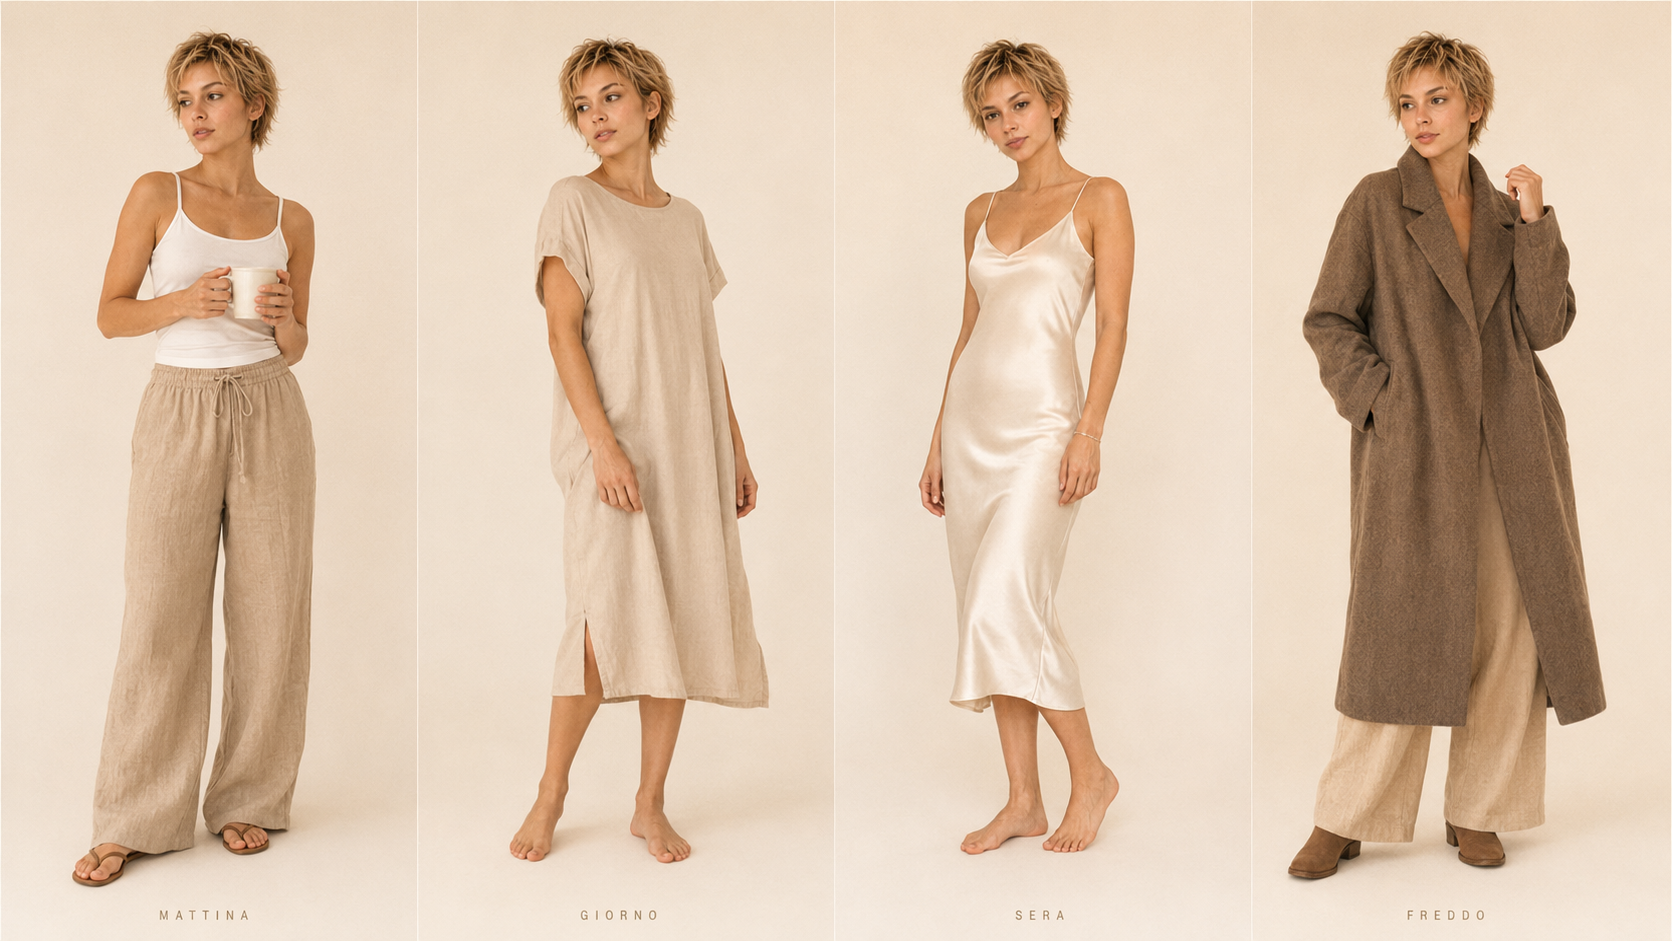
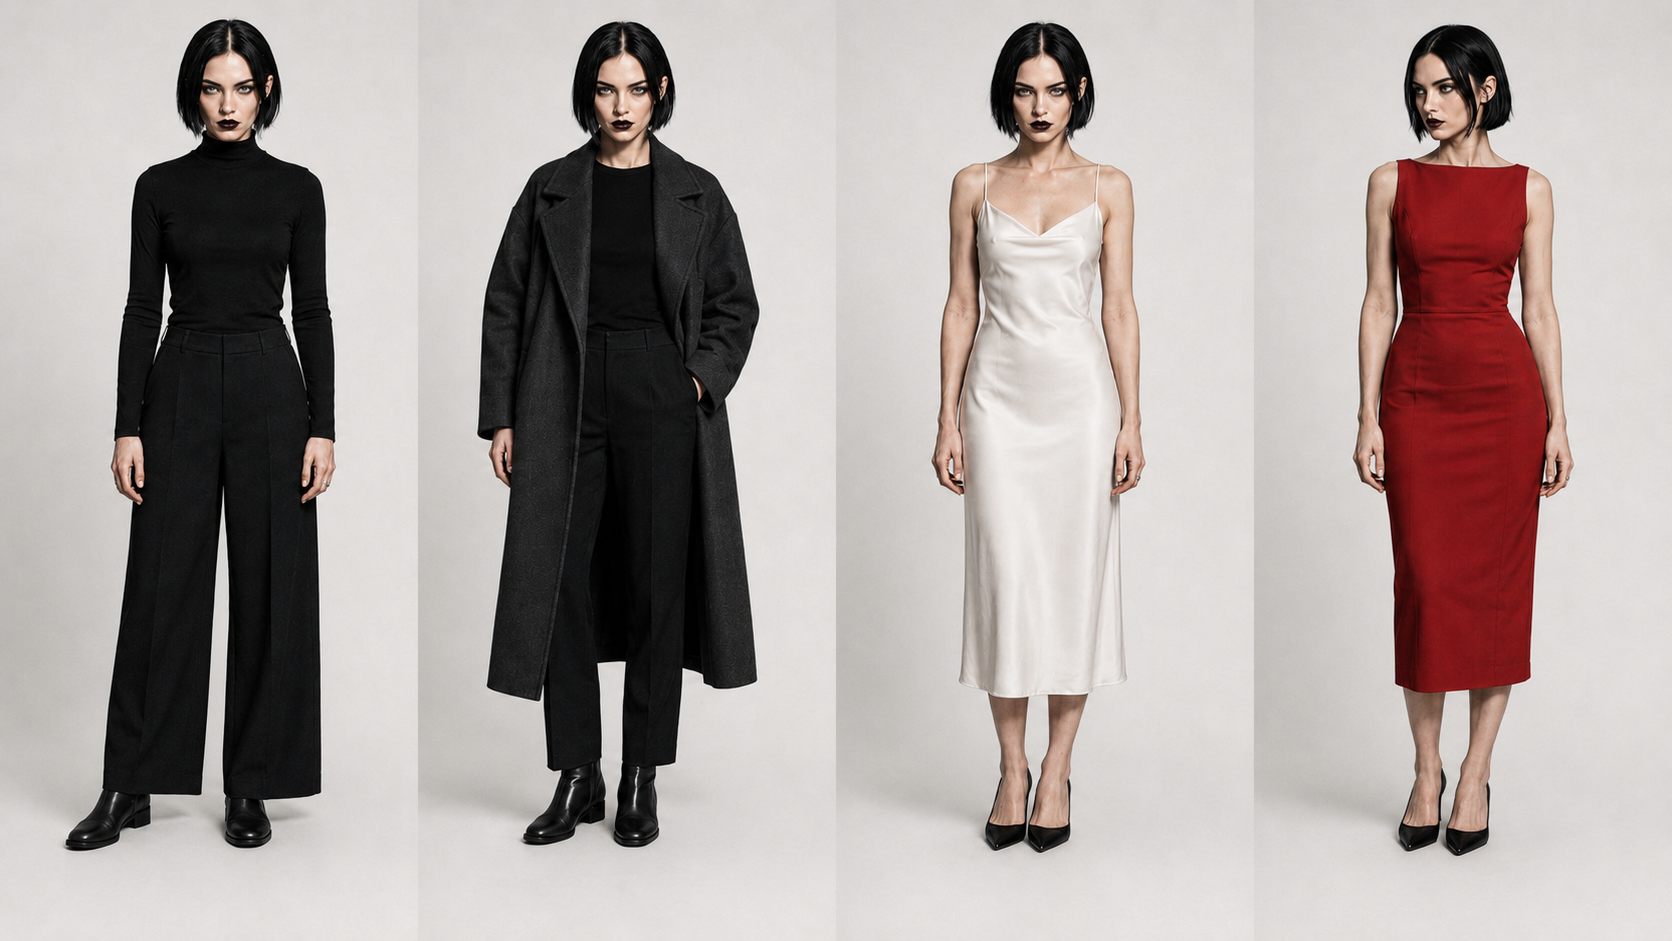
Lyra: fix all hardcoded dark colors, update stile neutri caldi image

diff --git a/lyra.html b/lyra.html
@@ -153,7 +153,7 @@ body{font-family:'Manrope',sans-serif;background:#121010;color:var(--cacao);-web
 .fmt-chip.accent .fn,.fmt-chip.accent .fr{color:var(--cacao)}
 
 /* ── POSTS ── */
-.post{aspect-ratio:1;border-radius:16px;padding:24px;display:flex;flex-direction:column;justify-content:space-between;position:relative;overflow:hidden;box-shadow:0 14px 36px -22px rgba(93,70,59,.45);max-height:340px;margin:0 auto;width:100%}
+.post{aspect-ratio:1;border-radius:16px;padding:24px;display:flex;flex-direction:column;justify-content:space-between;position:relative;overflow:hidden;box-shadow:0 14px 36px -22px rgba(220,216,208,.45);max-height:340px;margin:0 auto;width:100%}
 .post .lbl{position:absolute;top:12px;left:13px;font-size:8px;letter-spacing:.16em;text-transform:uppercase;font-weight:600;opacity:.55}
 .post.drop{background:linear-gradient(160deg,var(--pesca),var(--albicocca));color:var(--cacao)}
 .post.drop .t{font-family:'Fraunces',serif;font-weight:500;font-size:28px;line-height:1.04}
@@ -225,10 +225,10 @@ body{font-family:'Manrope',sans-serif;background:#121010;color:var(--cacao);-web
 .regista-list{margin-top:20px;border-top:1px solid var(--champagne);max-width:680px}
 .reg-row{display:grid;grid-template-columns:172px 1fr;gap:28px;align-items:baseline;padding:13px 0;border-bottom:1px solid var(--champagne)}
 .reg-row .rf-label{font-size:8px;letter-spacing:.16em;text-transform:uppercase;font-weight:700;color:var(--tortora);padding-top:2px;word-break:keep-all}
-.reg-row .rf-text{font-size:11.5px;color:rgba(93,70,59,.4);line-height:1.6;font-style:italic;font-family:'Fraunces',serif}
+.reg-row .rf-text{font-size:11.5px;color:rgba(220,216,208,.4);line-height:1.6;font-style:italic;font-family:'Fraunces',serif}
 .regista-quote{margin-top:20px;padding:18px 22px;background:var(--avorio);border-radius:12px;border-left:3px solid var(--corallo);max-width:680px}
 .regista-quote .rq-label{font-size:8px;letter-spacing:.2em;text-transform:uppercase;font-weight:700;color:var(--corallo);margin-bottom:8px}
-.regista-quote .rq-text{font-family:'Fraunces',serif;font-style:italic;font-size:15px;color:rgba(93,70,59,.35);line-height:1.45}
+.regista-quote .rq-text{font-family:'Fraunces',serif;font-style:italic;font-size:15px;color:rgba(220,216,208,.35);line-height:1.45}
 /* ── ANTI-LISTA ── */
 .anti-grid{display:grid;grid-template-columns:repeat(2,1fr);gap:16px;margin-top:20px}
 .anti-block{padding:16px 18px;border-radius:14px;background:var(--avorio);border:1px solid var(--champagne)}
@@ -254,7 +254,7 @@ body{font-family:'Manrope',sans-serif;background:#121010;color:var(--cacao);-web
 
 /* ── FEATURED ── */
 .feat{display:flex;flex-direction:column;gap:12px}
-.fcard{display:flex;border-radius:12px;overflow:hidden;box-shadow:0 10px 24px -20px rgba(93,70,59,.45);background:var(--panna)}
+.fcard{display:flex;border-radius:12px;overflow:hidden;box-shadow:0 10px 24px -20px rgba(220,216,208,.45);background:var(--panna)}
 .fcard .vis{flex:0 0 90px;display:flex;align-items:center;justify-content:center;font-family:'Fraunces',serif;font-style:italic;font-size:26px;color:rgba(255,255,255,.85)}
 .fcard .bd{padding:12px 15px}
 .fcard .bd .k{font-size:8px;letter-spacing:.14em;text-transform:uppercase;color:var(--tortora);font-weight:600}
@@ -265,7 +265,7 @@ body{font-family:'Manrope',sans-serif;background:#121010;color:var(--cacao);-web
 .f4 .vis{background:linear-gradient(150deg,var(--salvia),var(--pistacchio))}
 
 /* ── SIG CARD ── */
-.sig-card{background:var(--panna);border-radius:16px;padding:24px;display:flex;gap:20px;align-items:center;box-shadow:0 14px 30px -24px rgba(93,70,59,.4)}
+.sig-card{background:var(--panna);border-radius:16px;padding:24px;display:flex;gap:20px;align-items:center;box-shadow:0 14px 30px -24px rgba(220,216,208,.4)}
 .sig-card .av{width:84px;height:84px;border-radius:50%;flex:0 0 84px;background:linear-gradient(150deg,var(--champagne),var(--pesca));display:flex;align-items:center;justify-content:center;font-family:'Fraunces',serif;font-style:italic;font-size:34px;color:var(--panna)}
 .sig-card .n{font-family:'Fraunces',serif;font-weight:500;font-size:19px}
 .sig-card .r{font-size:11px;color:var(--tortora);font-weight:500;margin:3px 0}
@@ -311,7 +311,7 @@ details.prompt-drop .pp-box{border-radius:0;margin:0;font-size:10.5px}
 .copy-ph{display:flex;flex-direction:column;gap:10px}
 .copy-ph-block{border:1.5px dashed var(--corallo);border-radius:10px;padding:14px 16px;background:#FDEFE9}
 .copy-ph-block .cph-label{font-size:8px;letter-spacing:.2em;text-transform:uppercase;font-weight:700;color:var(--corallo);margin-bottom:6px}
-.copy-ph-block .cph-text{font-size:12px;color:rgba(93,70,59,.45);line-height:1.6;font-style:italic}
+.copy-ph-block .cph-text{font-size:12px;color:rgba(220,216,208,.45);line-height:1.6;font-style:italic}
 
 /* ── FOOTER ── */
 .site-footer{background:var(--cacao);color:rgba(255,248,238,.4);text-align:center;padding:40px 52px;font-size:10px;letter-spacing:.14em;text-transform:uppercase;font-weight:600;margin-top:80px}
@@ -440,7 +440,7 @@ details.prompt-drop .pp-box{border-radius:0;margin:0;font-size:10.5px}
         <div style="flex:0 0 100%;scroll-snap-align:start;position:relative;box-sizing:border-box">
           <img src="img/lyra/ref-stile-neutri-caldi.png" style="width:100%;display:block;border-radius:20px">
           <div style="position:absolute;top:16px;left:20px;right:20px;display:flex;justify-content:space-between;align-items:center">
-            <div style="background:rgba(93,70,59,.55);backdrop-filter:blur(4px);border-radius:20px;padding:5px 12px;font-size:8px;letter-spacing:.16em;text-transform:uppercase;font-weight:700;color:var(--panna)">Neutri caldi</div>
+            <div style="background:rgba(220,216,208,.55);backdrop-filter:blur(4px);border-radius:20px;padding:5px 12px;font-size:8px;letter-spacing:.16em;text-transform:uppercase;font-weight:700;color:var(--panna)">Neutri caldi</div>
             <div style="font-size:9px;font-weight:700;color:rgba(255,248,238,.5)">1 / 3</div>
           </div>
           <div style="position:absolute;bottom:16px;left:20px;font-size:11px;color:rgba(255,248,238,.7);font-weight:500">avorio · champagne · sabbia · cacao</div>
@@ -450,7 +450,7 @@ details.prompt-drop .pp-box{border-radius:0;margin:0;font-size:10.5px}
         <div style="flex:0 0 100%;scroll-snap-align:start;position:relative;box-sizing:border-box">
           <img src="img/lyra/ref-stile-caldi-morbidi.png" style="width:100%;display:block;border-radius:20px">
           <div style="position:absolute;top:16px;left:20px;right:20px;display:flex;justify-content:space-between;align-items:center">
-            <div style="background:rgba(93,70,59,.55);backdrop-filter:blur(4px);border-radius:20px;padding:5px 12px;font-size:8px;letter-spacing:.16em;text-transform:uppercase;font-weight:700;color:var(--panna)">Caldi morbidi</div>
+            <div style="background:rgba(220,216,208,.55);backdrop-filter:blur(4px);border-radius:20px;padding:5px 12px;font-size:8px;letter-spacing:.16em;text-transform:uppercase;font-weight:700;color:var(--panna)">Caldi morbidi</div>
             <div style="font-size:9px;font-weight:700;color:rgba(255,248,238,.5)">2 / 3</div>
           </div>
           <div style="position:absolute;bottom:16px;left:20px;font-size:11px;color:rgba(255,248,238,.7);font-weight:500">pesca · albicocca · rosa · corallo</div>
@@ -460,14 +460,14 @@ details.prompt-drop .pp-box{border-radius:0;margin:0;font-size:10.5px}
         <div style="flex:0 0 100%;scroll-snap-align:start;position:relative;box-sizing:border-box">
           <img src="img/lyra/ref-stile-freddi-rari.png" style="width:100%;display:block;border-radius:20px">
           <div style="position:absolute;top:16px;left:20px;right:20px;display:flex;justify-content:space-between;align-items:center">
-            <div style="background:rgba(93,70,59,.55);backdrop-filter:blur(4px);border-radius:20px;padding:5px 12px;font-size:8px;letter-spacing:.16em;text-transform:uppercase;font-weight:700;color:var(--panna)">Freddi rari</div>
+            <div style="background:rgba(220,216,208,.55);backdrop-filter:blur(4px);border-radius:20px;padding:5px 12px;font-size:8px;letter-spacing:.16em;text-transform:uppercase;font-weight:700;color:var(--panna)">Freddi rari</div>
             <div style="font-size:9px;font-weight:700;color:rgba(255,248,238,.5)">3 / 3</div>
           </div>
           <div style="position:absolute;bottom:16px;left:20px;font-size:11px;color:rgba(255,248,238,.7);font-weight:500">pistacchio · salvia · acqua · turchese</div>
         </div>
       </div>
-      <button onclick="document.getElementById('stile-track').scrollBy({left:-1200,behavior:'smooth'})" style="position:absolute;left:-16px;top:50%;transform:translateY(-50%);width:36px;height:36px;border-radius:50%;background:var(--panna);border:1px solid var(--champagne);cursor:pointer;font-size:14px;display:flex;align-items:center;justify-content:center;box-shadow:0 4px 12px rgba(93,70,59,.15)">‹</button>
-      <button onclick="document.getElementById('stile-track').scrollBy({left:1200,behavior:'smooth'})" style="position:absolute;right:-16px;top:50%;transform:translateY(-50%);width:36px;height:36px;border-radius:50%;background:var(--panna);border:1px solid var(--champagne);cursor:pointer;font-size:14px;display:flex;align-items:center;justify-content:center;box-shadow:0 4px 12px rgba(93,70,59,.15)">›</button>
+      <button onclick="document.getElementById('stile-track').scrollBy({left:-1200,behavior:'smooth'})" style="position:absolute;left:-16px;top:50%;transform:translateY(-50%);width:36px;height:36px;border-radius:50%;background:var(--panna);border:1px solid var(--champagne);cursor:pointer;font-size:14px;display:flex;align-items:center;justify-content:center;box-shadow:0 4px 12px rgba(220,216,208,.15)">‹</button>
+      <button onclick="document.getElementById('stile-track').scrollBy({left:1200,behavior:'smooth'})" style="position:absolute;right:-16px;top:50%;transform:translateY(-50%);width:36px;height:36px;border-radius:50%;background:var(--panna);border:1px solid var(--champagne);cursor:pointer;font-size:14px;display:flex;align-items:center;justify-content:center;box-shadow:0 4px 12px rgba(220,216,208,.15)">›</button>
     </div>
     <div style="display:flex;justify-content:center;gap:6px;margin-bottom:28px">
       <div style="width:6px;height:6px;border-radius:50%;background:var(--cacao)"></div>
@@ -848,7 +848,7 @@ details.prompt-drop .pp-box{border-radius:0;margin:0;font-size:10.5px}
       <div class="tmpl-card">
         <div class="post drop" style="background:none;padding:0;overflow:hidden;position:relative;aspect-ratio:1;max-height:none">
           <img src="img/lyra/ref-drop-01.png" alt="Drop post" style="width:100%;height:100%;object-fit:cover;display:block;border-radius:16px">
-          <div style="position:absolute;inset:0;border-radius:16px;background:linear-gradient(to bottom, rgba(93,70,59,.55) 0%, transparent 35%, transparent 55%, rgba(93,70,59,.7) 100%)"></div>
+          <div style="position:absolute;inset:0;border-radius:16px;background:linear-gradient(to bottom, rgba(220,216,208,.55) 0%, transparent 35%, transparent 55%, rgba(220,216,208,.7) 100%)"></div>
           <div style="position:absolute;top:13px;left:14px;font-size:8px;letter-spacing:.16em;text-transform:uppercase;font-weight:600;color:rgba(255,248,238,.6)">Drop</div>
           <div style="position:absolute;top:18px;right:0;left:0;text-align:center;padding:0 20px">
             <div style="font-family:'Fraunces',serif;font-weight:500;font-size:26px;line-height:1.1;color:var(--panna)">Sera.<br><span style="font-size:14px;letter-spacing:.18em;font-style:italic;opacity:.8">Vol. 01</span></div>
@@ -899,7 +899,7 @@ più che cose — commenta <span class="v">SERA</span> e te lo mando 🤎</div>
       <div class="tmpl-card">
         <div class="post world" style="background:none;padding:0;overflow:hidden;position:relative;aspect-ratio:1;max-height:none">
           <img src="img/lyra/ref-world-01.png" alt="World post" style="width:100%;height:100%;object-fit:cover;display:block;border-radius:16px">
-          <div style="position:absolute;inset:0;border-radius:16px;background:linear-gradient(to top, rgba(93,70,59,.72) 0%, transparent 55%)"></div>
+          <div style="position:absolute;inset:0;border-radius:16px;background:linear-gradient(to top, rgba(220,216,208,.72) 0%, transparent 55%)"></div>
           <div style="position:absolute;top:13px;left:14px;font-size:8px;letter-spacing:.16em;text-transform:uppercase;font-weight:600;color:rgba(255,248,238,.6)">World</div>
           <div style="position:absolute;bottom:22px;left:20px;right:20px">
             <div style="font-family:'Fraunces',serif;font-style:italic;font-size:22px;line-height:1.2;color:var(--panna);font-variation-settings:'SOFT' 60;margin-bottom:8px">certe sere esistono<br>solo per essere respirate.</div>
@@ -944,7 +944,7 @@ selling. The atmosphere is the subject.
       <div class="tmpl-card">
         <div class="post duet" style="background:none;padding:0;overflow:hidden;position:relative;aspect-ratio:1;max-height:none">
           <img src="img/lyra/ref-duet-01.png" alt="Duet post" style="width:100%;height:100%;object-fit:cover;display:block;border-radius:16px">
-          <div style="position:absolute;inset:0;border-radius:16px;background:linear-gradient(to top, rgba(93,70,59,.75) 0%, transparent 50%)"></div>
+          <div style="position:absolute;inset:0;border-radius:16px;background:linear-gradient(to top, rgba(220,216,208,.75) 0%, transparent 50%)"></div>
           <div style="position:absolute;top:13px;left:14px;font-size:8px;letter-spacing:.16em;text-transform:uppercase;font-weight:600;color:rgba(255,248,238,.6)">Duet</div>
           <div style="position:absolute;bottom:22px;left:20px;right:20px">
             <div style="font-family:'Fraunces',serif;font-style:italic;font-size:22px;line-height:1.2;color:var(--panna);font-variation-settings:'SOFT' 60;margin-bottom:8px">Io sono finta.<br>Questo profumo no.</div>
@@ -1017,7 +1017,7 @@ Leave top-right area empty for text overlay.
           <!-- 02 world -->
           <div style="flex:0 0 100%;scroll-snap-align:start;aspect-ratio:1;position:relative;overflow:hidden;box-sizing:border-box">
             <img src="img/lyra/ref-world-01.png" style="width:100%;height:100%;object-fit:cover;display:block">
-            <div style="position:absolute;inset:0;background:linear-gradient(to top,rgba(93,70,59,.7) 0%,transparent 55%)"></div>
+            <div style="position:absolute;inset:0;background:linear-gradient(to top,rgba(220,216,208,.7) 0%,transparent 55%)"></div>
             <div style="position:absolute;top:12px;left:14px;right:14px;display:flex;justify-content:space-between">
               <div style="font-size:8px;letter-spacing:.14em;text-transform:uppercase;font-weight:600;color:rgba(255,248,238,.5)">World</div>
               <div style="font-size:9px;font-weight:700;color:rgba(255,248,238,.35)">2 / 6</div>
@@ -1028,7 +1028,7 @@ Leave top-right area empty for text overlay.
           <!-- 03 ritual -->
           <div style="flex:0 0 100%;scroll-snap-align:start;aspect-ratio:1;position:relative;overflow:hidden;box-sizing:border-box">
             <img src="img/lyra/ref-sera-03.png" style="width:100%;height:100%;object-fit:cover;display:block">
-            <div style="position:absolute;inset:0;background:linear-gradient(to top,rgba(93,70,59,.55) 0%,transparent 50%)"></div>
+            <div style="position:absolute;inset:0;background:linear-gradient(to top,rgba(220,216,208,.55) 0%,transparent 50%)"></div>
             <div style="position:absolute;top:12px;left:14px;right:14px;display:flex;justify-content:space-between">
               <div style="font-size:8px;letter-spacing:.14em;text-transform:uppercase;font-weight:600;color:rgba(255,248,238,.5)">Ritual</div>
               <div style="font-size:9px;font-weight:700;color:rgba(255,248,238,.35)">3 / 6</div>
@@ -1049,7 +1049,7 @@ Leave top-right area empty for text overlay.
           <!-- 05 duet -->
           <div style="flex:0 0 100%;scroll-snap-align:start;aspect-ratio:1;position:relative;overflow:hidden;box-sizing:border-box">
             <img src="img/lyra/ref-duet-01.png" style="width:100%;height:100%;object-fit:cover;display:block">
-            <div style="position:absolute;inset:0;background:linear-gradient(to top,rgba(93,70,59,.65) 0%,transparent 55%)"></div>
+            <div style="position:absolute;inset:0;background:linear-gradient(to top,rgba(220,216,208,.65) 0%,transparent 55%)"></div>
             <div style="position:absolute;top:12px;left:14px;right:14px;display:flex;justify-content:space-between;align-items:center">
               <div style="font-size:8px;letter-spacing:.14em;text-transform:uppercase;font-weight:600;color:rgba(255,248,238,.5)">Duet</div>
               <div style="font-size:9px;font-weight:700;color:rgba(255,248,238,.35)">5 / 6</div>
@@ -1063,7 +1063,7 @@ Leave top-right area empty for text overlay.
           <!-- 06 drop CTA -->
           <div style="flex:0 0 100%;scroll-snap-align:start;aspect-ratio:1;position:relative;overflow:hidden;box-sizing:border-box">
             <img src="img/lyra/ref-drop-01.png" style="width:100%;height:100%;object-fit:cover;display:block">
-            <div style="position:absolute;inset:0;background:linear-gradient(to bottom,rgba(93,70,59,.65) 0%,transparent 40%,transparent 52%,rgba(93,70,59,.8) 100%)"></div>
+            <div style="position:absolute;inset:0;background:linear-gradient(to bottom,rgba(220,216,208,.65) 0%,transparent 40%,transparent 52%,rgba(220,216,208,.8) 100%)"></div>
             <div style="position:absolute;top:12px;left:14px;right:14px;display:flex;justify-content:space-between;align-items:center">
               <div style="font-size:8px;letter-spacing:.14em;text-transform:uppercase;font-weight:600;color:rgba(255,248,238,.5)">Drop</div>
               <div style="font-size:9px;font-weight:700;color:rgba(255,248,238,.35)">6 / 6</div>
@@ -1079,8 +1079,8 @@ Leave top-right area empty for text overlay.
         </div>
 
         <!-- frecce -->
-        <button onclick="document.getElementById('sera-track').scrollBy({left:-420,behavior:'smooth'})" style="position:absolute;left:-18px;top:50%;transform:translateY(-50%);width:36px;height:36px;border-radius:50%;background:var(--panna);border:1px solid var(--champagne);cursor:pointer;font-size:14px;display:flex;align-items:center;justify-content:center;box-shadow:0 4px 12px rgba(93,70,59,.15)">‹</button>
-        <button onclick="document.getElementById('sera-track').scrollBy({left:420,behavior:'smooth'})" style="position:absolute;right:-18px;top:50%;transform:translateY(-50%);width:36px;height:36px;border-radius:50%;background:var(--panna);border:1px solid var(--champagne);cursor:pointer;font-size:14px;display:flex;align-items:center;justify-content:center;box-shadow:0 4px 12px rgba(93,70,59,.15)">›</button>
+        <button onclick="document.getElementById('sera-track').scrollBy({left:-420,behavior:'smooth'})" style="position:absolute;left:-18px;top:50%;transform:translateY(-50%);width:36px;height:36px;border-radius:50%;background:var(--panna);border:1px solid var(--champagne);cursor:pointer;font-size:14px;display:flex;align-items:center;justify-content:center;box-shadow:0 4px 12px rgba(220,216,208,.15)">‹</button>
+        <button onclick="document.getElementById('sera-track').scrollBy({left:420,behavior:'smooth'})" style="position:absolute;right:-18px;top:50%;transform:translateY(-50%);width:36px;height:36px;border-radius:50%;background:var(--panna);border:1px solid var(--champagne);cursor:pointer;font-size:14px;display:flex;align-items:center;justify-content:center;box-shadow:0 4px 12px rgba(220,216,208,.15)">›</button>
       </div>
 
       <!-- dots -->